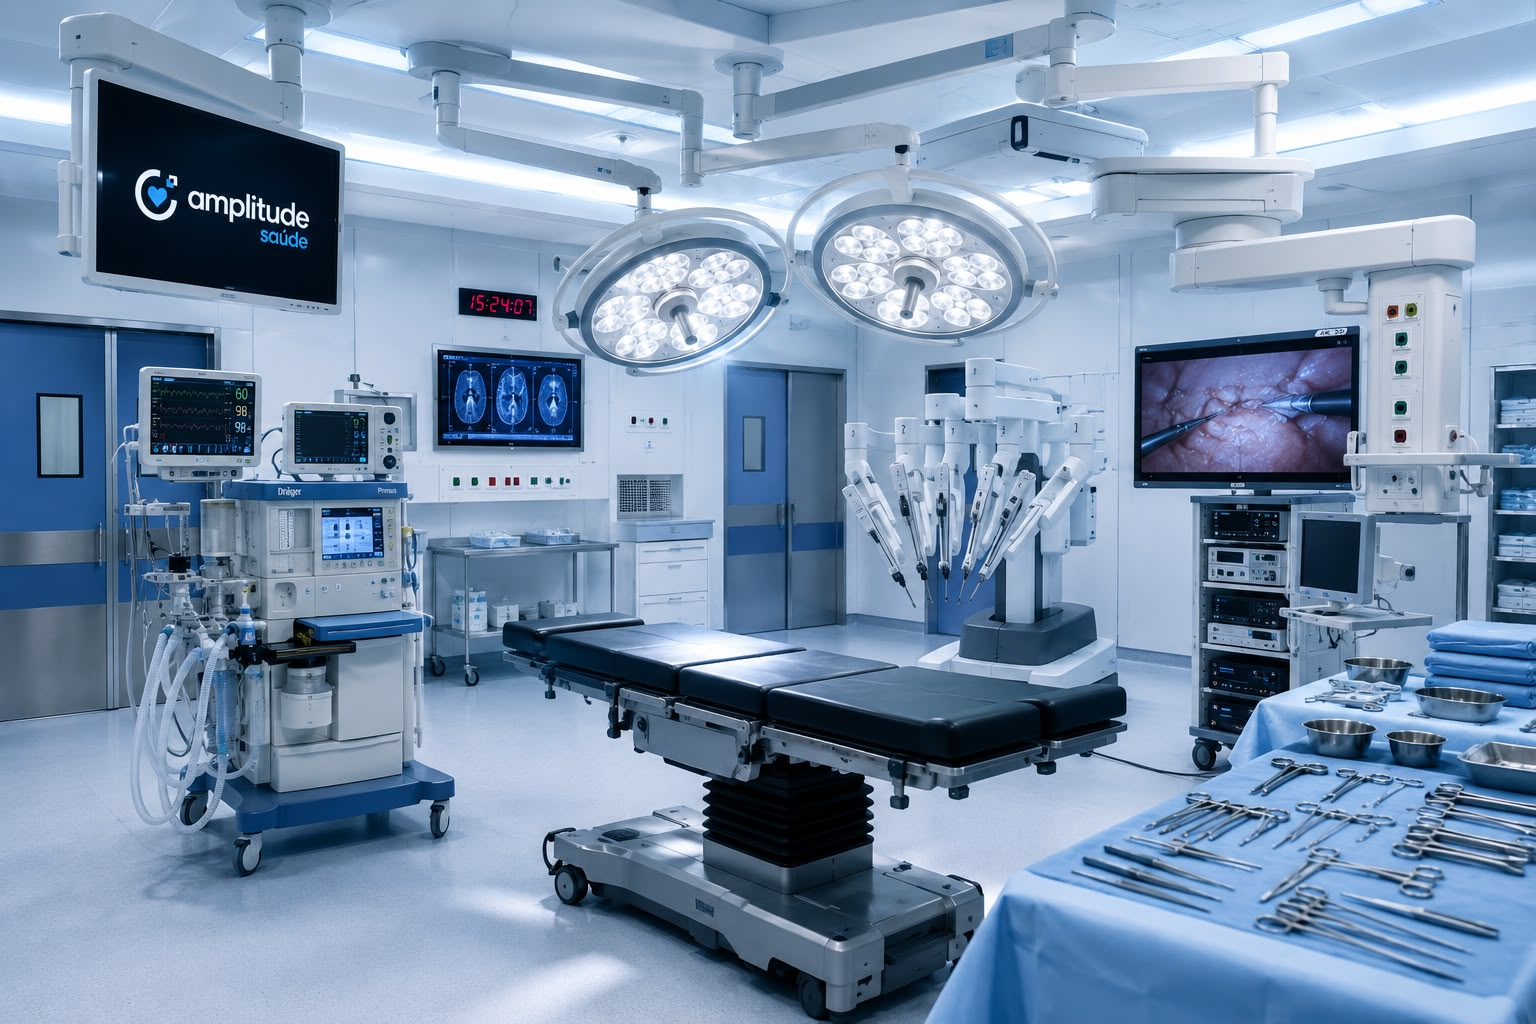
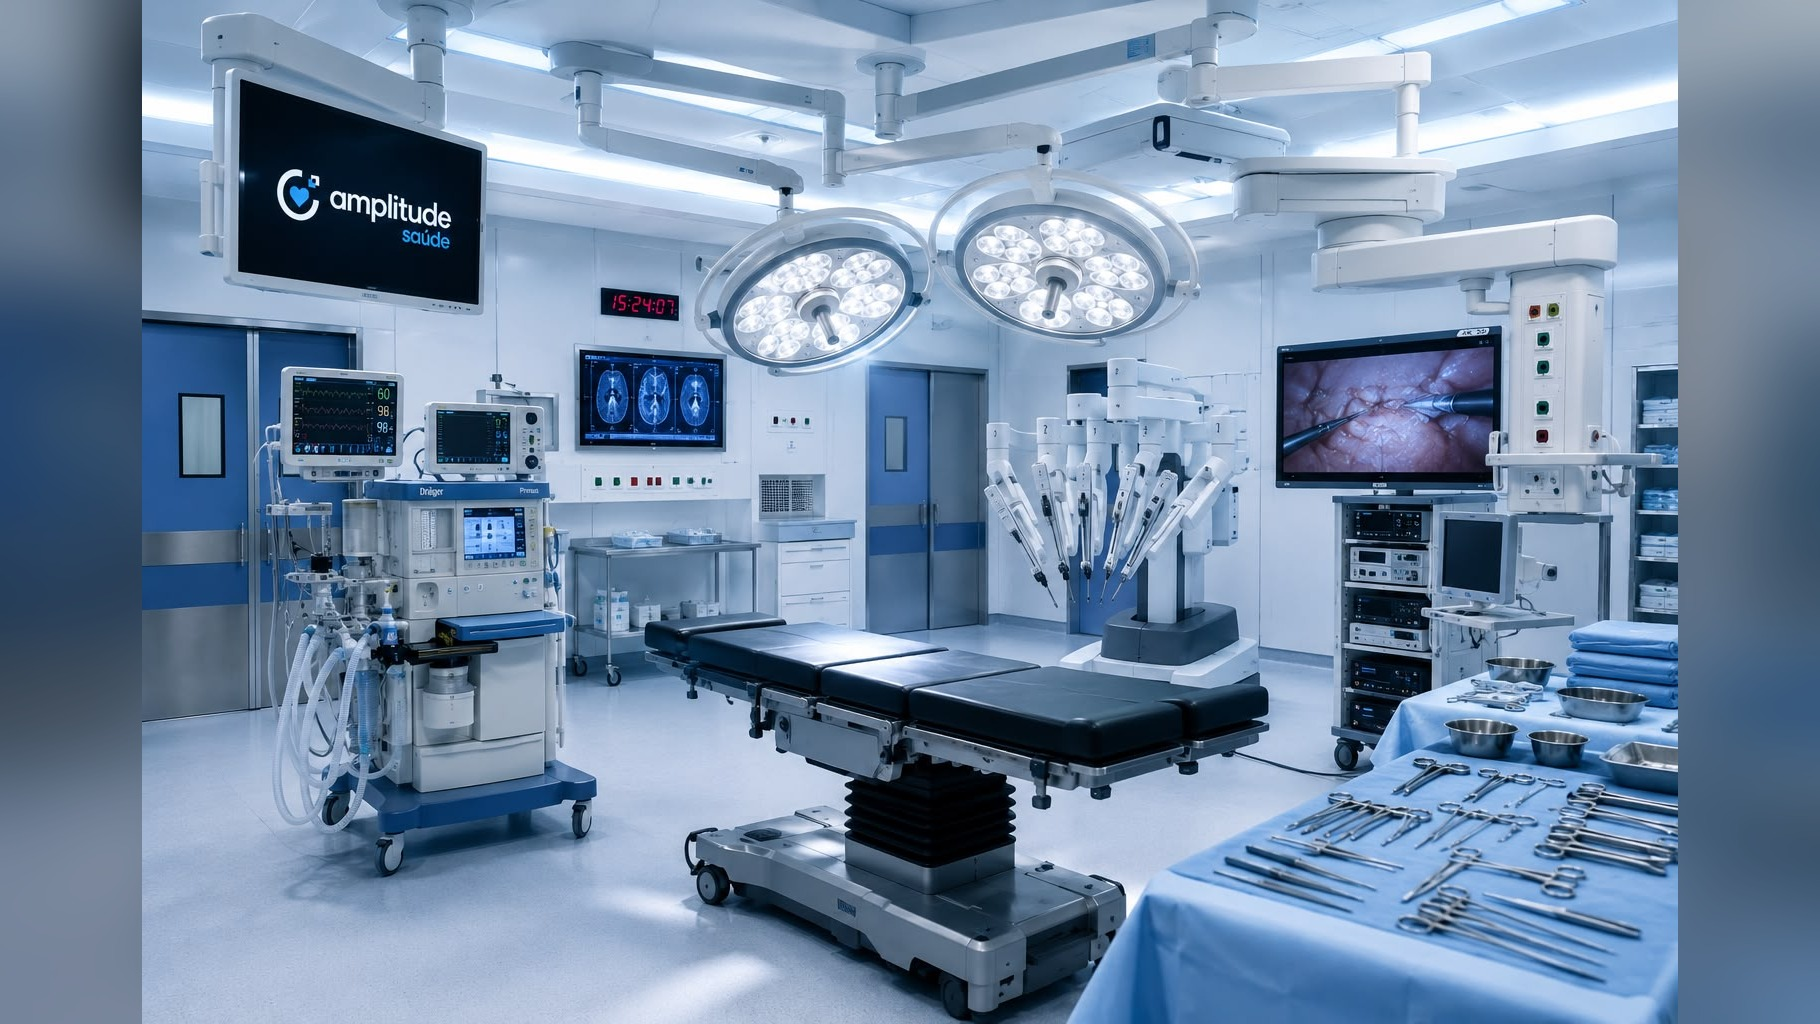
Pad building photos to 16:9 with blurred-extend background so cards show the full photo at standard size

diff --git a/index.html b/index.html
@@ -193,7 +193,7 @@
       </div>
 
       <div class="why-row reverse reveal">
-        <div class="why-photo"><div class="photo-real photo-contain"><img src="img/WhatsApp Image 2026-08-18 at 19.52.49.jpeg" alt="Presença local" loading="lazy"></div></div>
+        <div class="why-photo"><div class="photo-real"><img src="img/WhatsApp Image 2026-08-18 at 19.52.49.jpeg" alt="Presença local" loading="lazy"></div></div>
         <div class="why-copy">
           <h3><span class="why-num">04</span> Presença local</h3>
           <p>Uma operadora presente no mercado sergipano, próxima de beneficiários, empresas, corretores e prestadores. Porque estar perto também é uma forma de cuidar.</p>
@@ -238,7 +238,7 @@
       </div>
 
       <div class="why-row reveal">
-        <div class="why-photo"><div class="photo-real photo-contain"><img src="img/WhatsApp Image 2026-08-18 at 19.52.06.jpeg" alt="Estrutura moderna de atendimento" loading="lazy"></div></div>
+        <div class="why-photo"><div class="photo-real"><img src="img/WhatsApp Image 2026-08-18 at 19.52.06.jpeg" alt="Estrutura moderna de atendimento" loading="lazy"></div></div>
         <div class="why-copy">
           <h3><span class="why-num">09</span> Uma nova experiência em plano de saúde</h3>
           <p>Queremos ir além do modelo tradicional. A Amplitude Saúde busca unir proximidade, tecnologia, relacionamento e uma rede de cuidado capaz de acompanhar as novas necessidades dos beneficiários.</p>
@@ -248,7 +248,7 @@
 
       <div class="why-row reverse reveal">
         <div class="why-photo">
-          <div class="photo-real photo-contain"><img src="img/WhatsApp Image 2026-08-18 at 19.57.08.jpeg" alt="Estrutura pronta para cuidar de você" loading="lazy"></div>
+          <div class="photo-real"><img src="img/WhatsApp Image 2026-08-18 at 19.57.08.jpeg" alt="Estrutura pronta para cuidar de você" loading="lazy"></div>
         </div>
         <div class="why-copy">
           <h3><span class="why-num">10</span> Cuidado que faz a diferença</h3>

diff --git a/assets/css/style.css b/assets/css/style.css
@@ -383,7 +383,6 @@ body.is-loading{overflow:hidden;}
 
 .why-photo{position:relative;}
 .why-photo .photo-real{border-radius:20px;overflow:hidden;box-shadow:var(--shadow-md);aspect-ratio:16/9;}
-.why-photo .photo-real.photo-contain img{object-position:center 75%;}
 @media(max-width:820px){.why-photo .photo-real{aspect-ratio:16/10;}}
 
 .why-copy h3{font-size:clamp(1.6rem,3vw,2.2rem);font-weight:700;color:var(--ink);margin-bottom:14px;line-height:1.3;}
